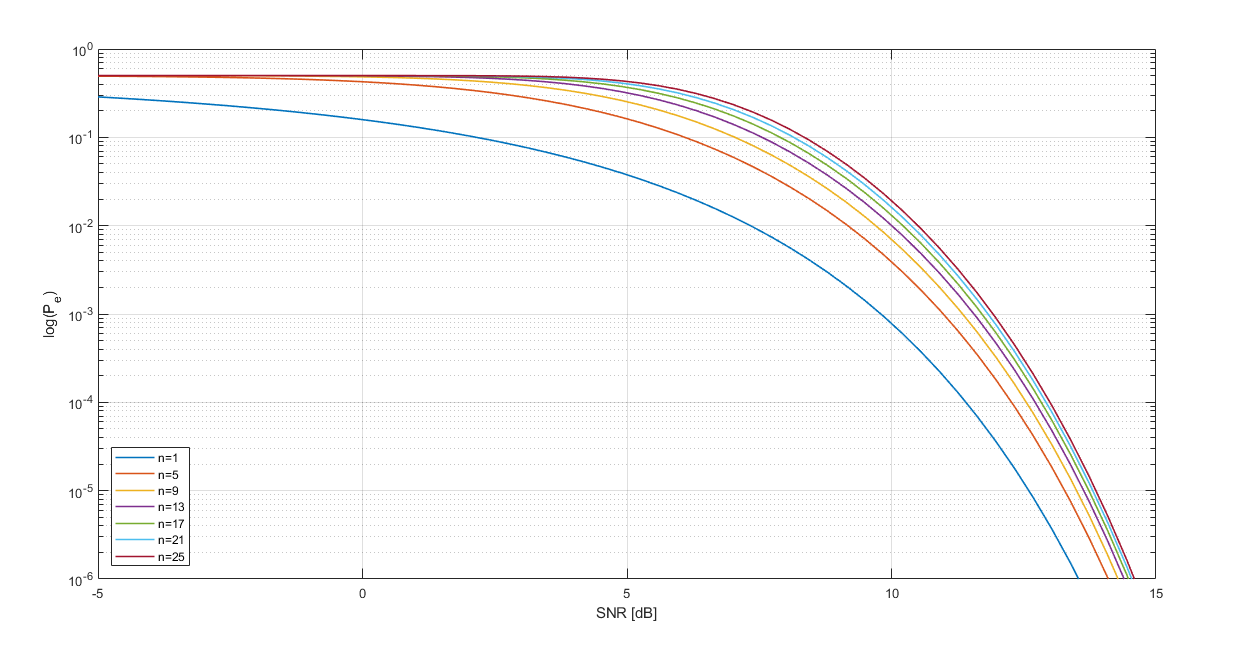
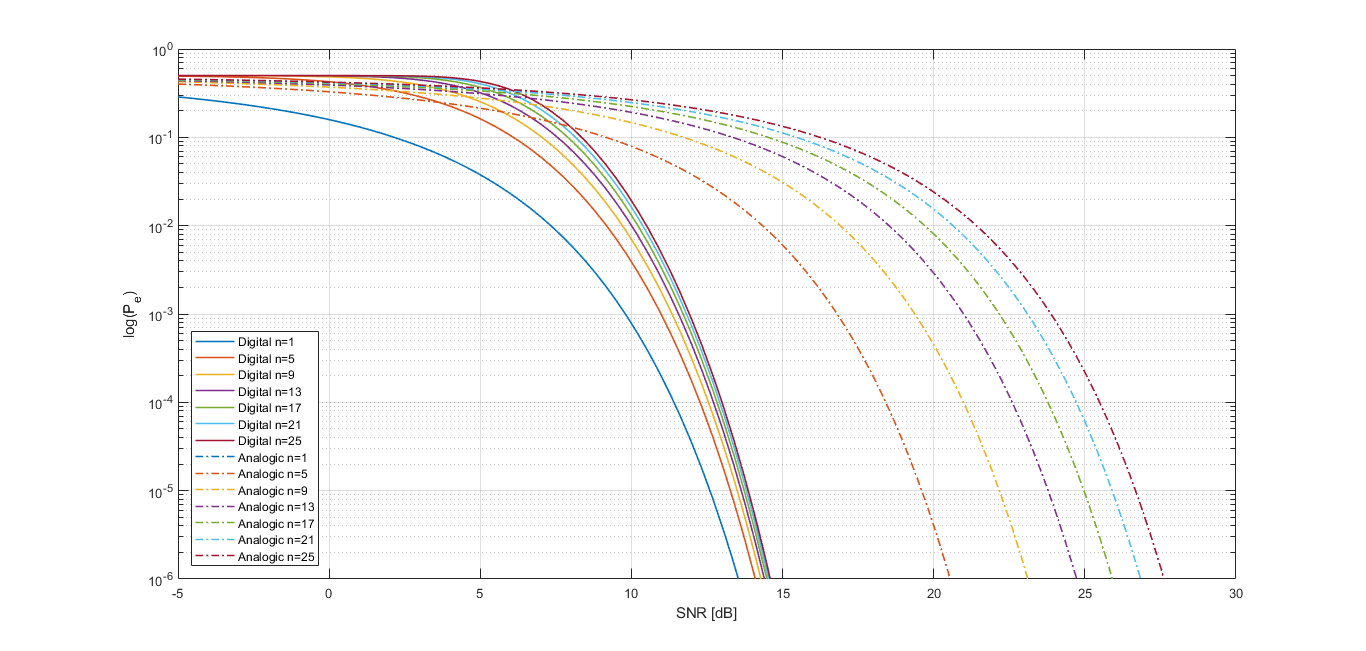
Grafico terminado ejercicio 3

diff --git a/ejercicio_3.m b/ejercicio_3.m
@@ -1,18 +1,35 @@
+close all;
+%% Definiciones
+
 SNR_DB = linspace (-5 , 30 , 100) ;
 SNR = 10.^(SNR_DB/10);
 n = 1 : 4 : 25;
 
+%% Probabilidad de error digital
 for i=1:7
-    prob_digital = 1/2*(1-((1-2*qfunc(SNR.^(1/2))).^n(i)));
-    leyenda = "n=" + n(i);
-    semilogy(SNR_DB, prob_digital,'DisplayName', leyenda, 'Linewidth', 1.2)
+    prob_analogico = 1/2*(1-((1-2*qfunc(SNR.^(1/2))).^n(i)));
+    leyenda = "Digital n=" + n(i);
+    semilogy(SNR_DB, prob_analogico,'DisplayName', leyenda, 'Linewidth', 1.2)
     hold on
 end
 
+%% Probabilidad de error analogico
+
+for i=1:7
+    k = 0 : (n(i)-2);
+    SNR_n = (SNR* (SNR/(SNR+1))^(n(i)-1) )/(1 + sum( (SNR/(SNR+1)).^(k+1) ));
+    prob_analogico = qfunc(SNR_n.^(1/2));
+    leyenda = "Analogic n=" + n(i);
+    semilogy(SNR_DB, prob_analogico,'DisplayName', leyenda, 'Linewidth', 1.2,'Linestyle', '-.')
+    hold on
+end
+
+
+%% Configuraciones del grafico
 grid on
 lgd = legend;
 legend('Location','southwest')
-xlim([-5 15])
+xlim([-5 30])
 ylim([10^-6 1]) 
 xlabel('SNR [dB]')
 ylabel('log(P_{e})')
